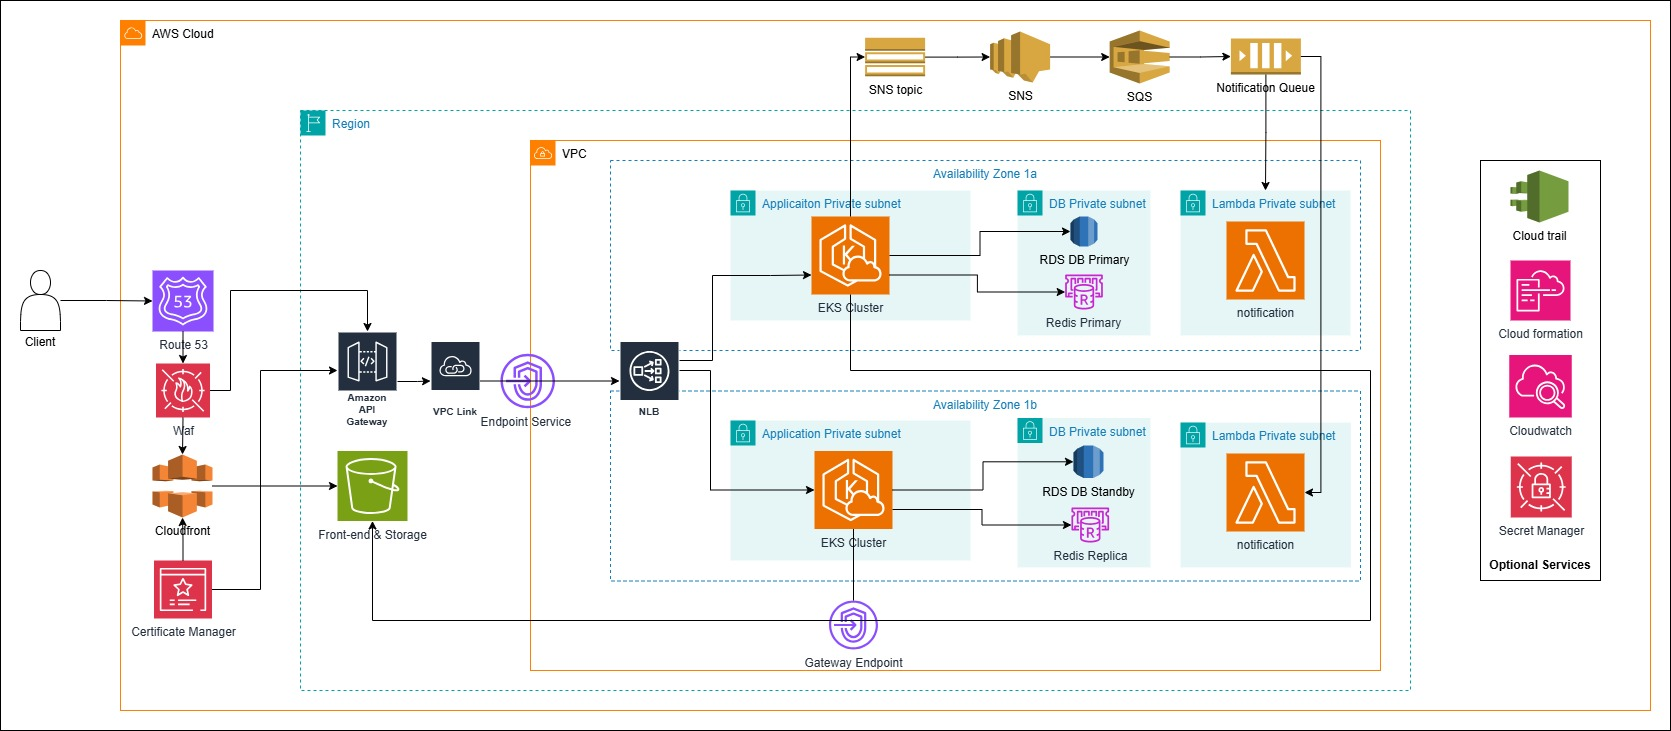
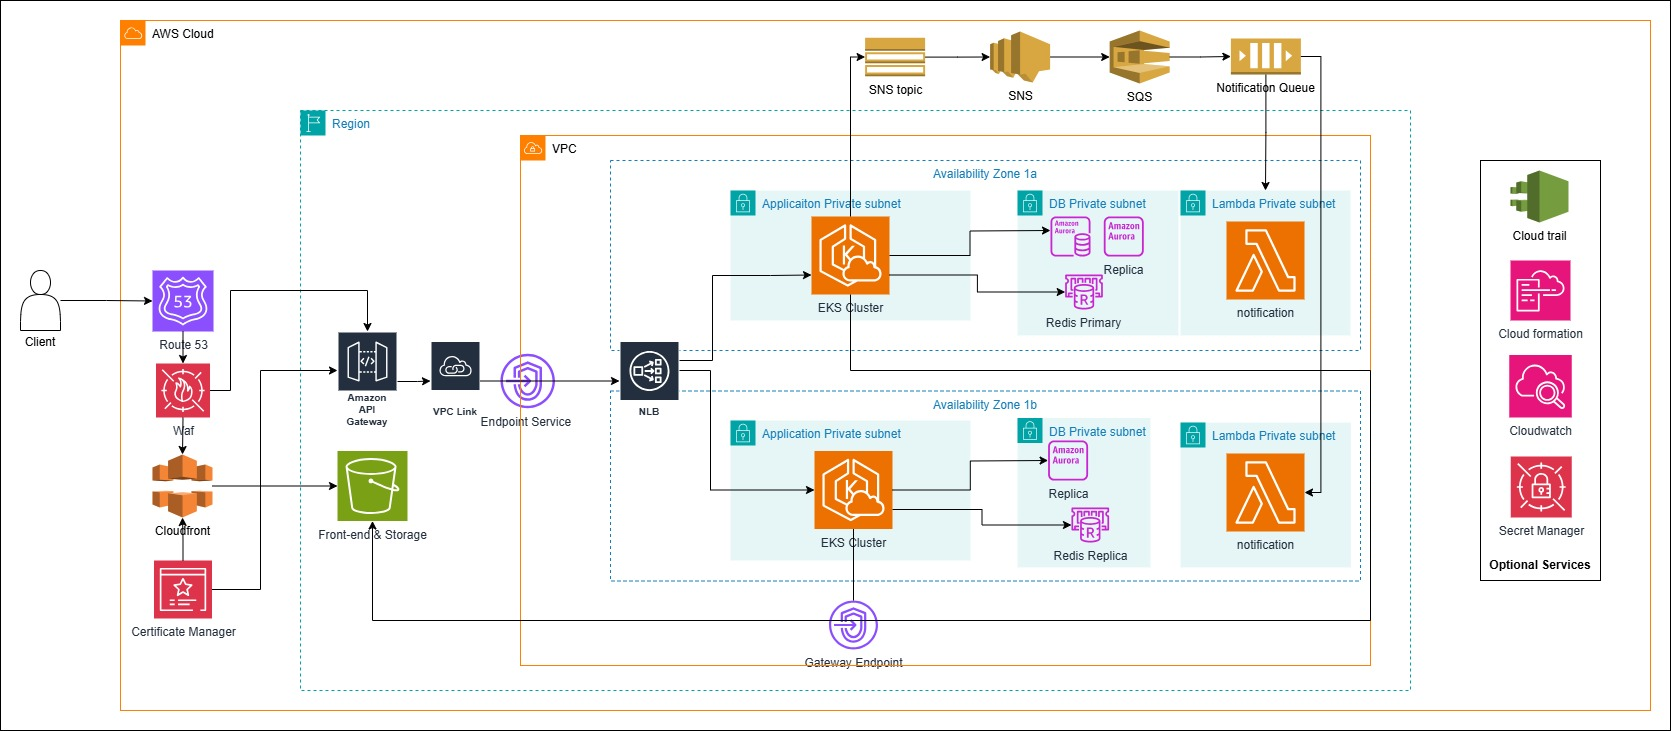
interview

diff --git a/Problem_3/README.md b/Problem_3/README.md
@@ -1,0 +1,40 @@
+
+If NGINX is used solely as a traffic router for upstream services, there are two distinct aspects to check:
+
+1. **NGINX configuration.**
+2. **The status, processing speed, and response time of the upstream service.**
+---
+#### - For case 1, I researched and used ChatGPT with some parameters that might be related:
+1. **proxy_buffer_size and proxy_buffers**:
+   - **Description**: These parameters define the size and number of buffers used to temporarily store data when proxying requests.
+   - **Solution**: Reducing the size and number of buffers can help decrease memory usage.
+
+2. **keepalive_requests**:
+   - **Description**: This parameter specifies the maximum number of requests that a keep-alive connection can handle before being closed.
+   - **Solution**: Setting a reasonable value for `keepalive_requests` to avoid holding connections for too long and consuming memory.
+
+3. **client_max_body_size**:
+   - **Description**: This parameter specifies the maximum size of each request that the NGINX server can handle.
+   - **Solution**: Reducing the value of `client_max_body_size` to limit the size of requests and decrease memory usage.
+
+4. **http2_max_concurrent_streams**:
+   - **Description**: This parameter specifies the maximum number of concurrent streams that an HTTP/2 connection can handle.
+   - **Solution**: Reducing the value of `http2_max_concurrent_streams` to avoid excessive memory consumption for concurrent streams.
+
+5. **proxy_cache**:
+   - **Description**: Using proxy cache can increase memory usage if not configured properly.
+   - **Solution**: Reviewing and adjusting cache-related parameters such as `proxy_cache_path`, `proxy_cache_key`, and `proxy_cache_valid`.
+
+6. **worker_processes and worker_connections**:
+   - **Description**: The `worker_processes` parameter defines the number of worker processes, and `worker_connections` defines the maximum number of connections each worker process can handle.
+   - **Solution**: Adjusting these parameters to ensure NGINX does not consume too much memory for processes and connections.
+
+7. **upstream keepalive**:
+   - **Description**: This parameter specifies the maximum number of keep-alive connections that NGINX can maintain with upstream servers.
+   - **Solution**: Reducing the value of `keepalive` in the upstream configuration to limit the number of keep-alive connections and reduce memory usage.
+---
+#### - Regarding the second issue, based on my personal experience, I would propose a few solutions:
+
+1. The first priority is to identify the underlying cause of the service delay and resolve it.
+2. Reduce the connection timeout to avoid impacting all other services sharing this load balancer.
+3. Temporarily reduce the number of concurrent connections to this service until the issue can be addressed.

diff --git a/Problem_2/README.md b/Problem_2/README.md
@@ -11,9 +11,8 @@
 - EKS is used to run backend services.
 - By leveraging Kubernetes’ strengths such as flexible scalability, self-healing, resource partitioning, and cross-platform/environment portability through manifest files (making it easy to switch to a different platform when needed) 
 - Meanwhile, with AWS EKS, the control plane is managed by AWS, so there’s no need to handle installation, maintenance, or patching, thus reducing operational overhead. It integrates seamlessly with other AWS services and supports automatic scaling of node groups via Cluster Autoscaler or Karpenter, ensuring a resilient, scalable, and cost-effective infrastructure.
-#### 2. Amazon RDS (Relational Database Service)
-- Stores data. 
-- Provides Multi-AZ capability, automatically switches over to the standby instance in a different AZ, making it the new primary when a failure occurs, ensuring resilience to failures.
+#### 2. Amazon Aurora 
+- The reason for choosing Aurora is that it delivers better performance and can easily support 500 requests per second. Additionally, since a cryptocurrency exchange requires real-time data, Aurora's distributed and shared storage architecture ensures low latency when reading data from replicas. Although it is more expensive than RDS, it offers more reliable performance.
 #### 3. Amazon ElastiCache for Redis
 - Create a caching layer to accelerate data access and reduce the load on RDS. 
 - An AWS-managed service that reduces operational overhead and provides failover support.
